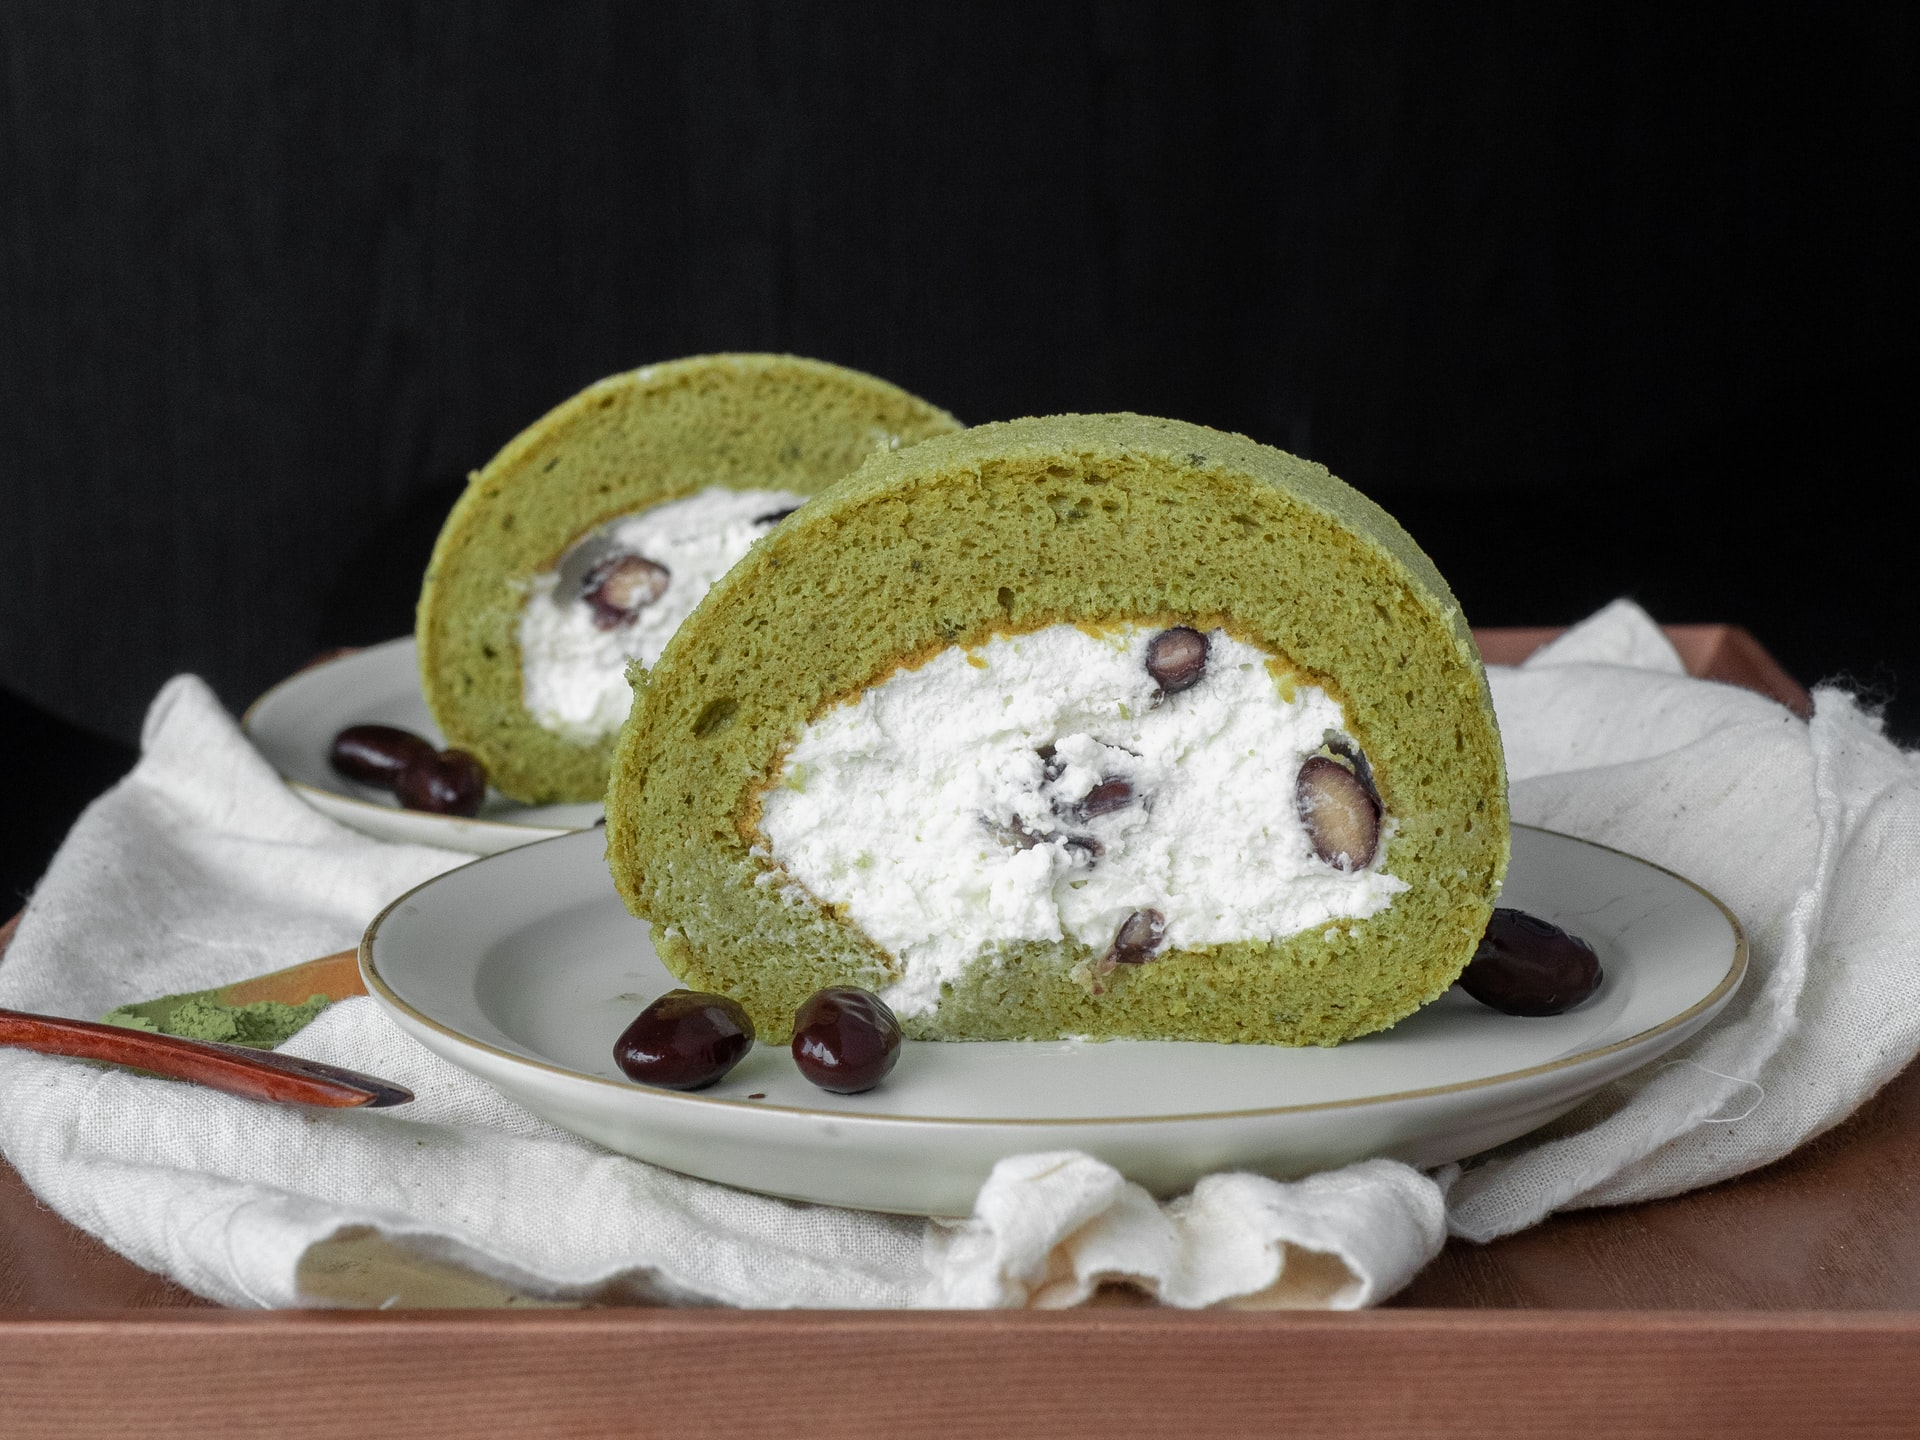
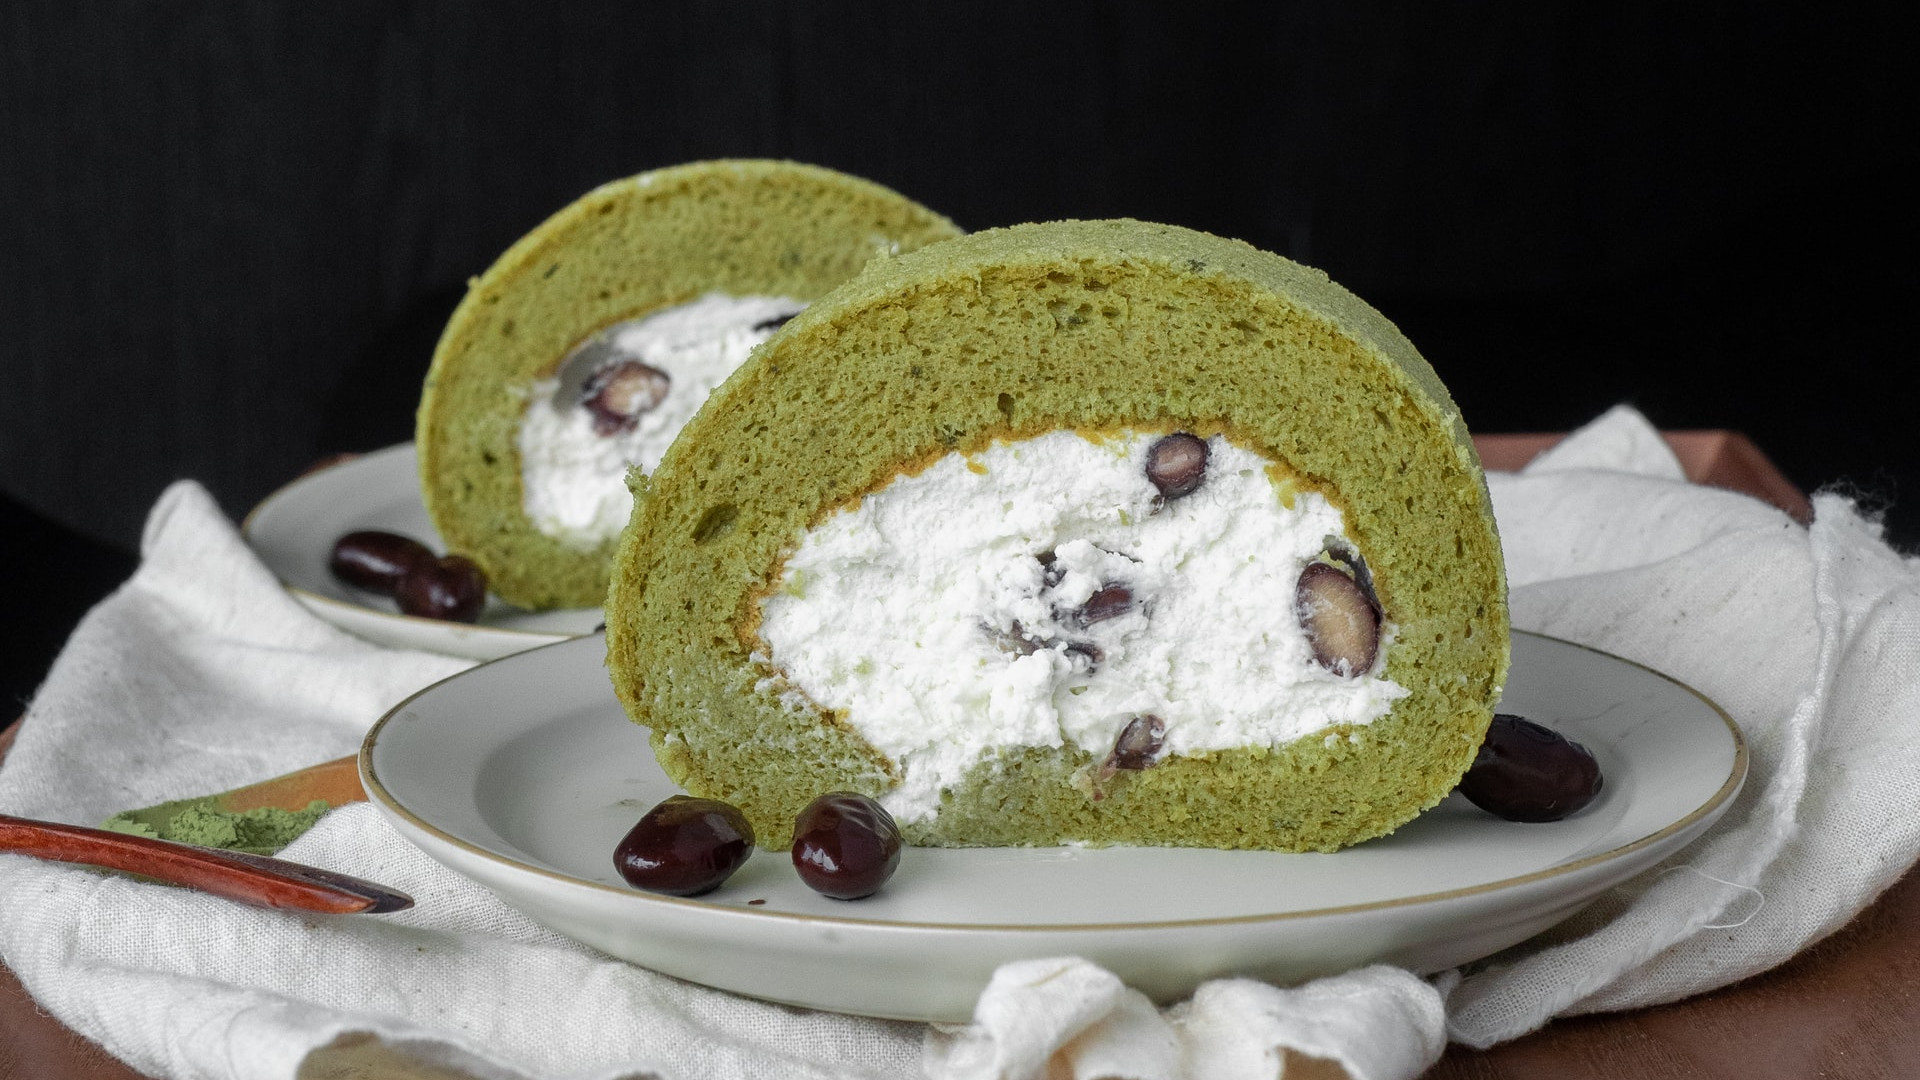
Crop images to consistent sizes

diff --git a/recipes/castella-cake.html b/recipes/castella-cake.html
@@ -10,24 +10,26 @@
   <body>
     <h1>Castella Cake</h1>
     <a href="/">Return to Home</a>
-    <img
-      src="../img/castella-cake.jpg"
-      alt="Castella cake being sprinkled with powdered sugar."
-    />
-    <p>
-      Photo by
-      <a
-        href="https://unsplash.com/@slashiophotography?utm_source=unsplash&utm_medium=referral&utm_content=creditCopyText"
-      >
-        Slashio Photography
-      </a>
-      on
-      <a
-        href="https://unsplash.com/?utm_source=unsplash&utm_medium=referral&utm_content=creditCopyText"
-      >
-        Unsplash
-      </a>
-    </p>
+    <div class="img-recipe">
+      <img
+        src="../img/castella-cake.jpg"
+        alt="Castella cake being sprinkled with powdered sugar."
+      />
+      <p class="img-attribution">
+        Photo by
+        <a
+          href="https://unsplash.com/@slashiophotography?utm_source=unsplash&utm_medium=referral&utm_content=creditCopyText"
+        >
+          Slashio Photography
+        </a>
+        on
+        <a
+          href="https://unsplash.com/?utm_source=unsplash&utm_medium=referral&utm_content=creditCopyText"
+        >
+          Unsplash
+        </a>
+      </p>
+    </div>
     <h2>Description</h2>
     <p>A fluffy and jiggly cake!</p>
     <p>Castella is best enjoyed hot and fresh from the oven.</p>

diff --git a/recipes/souffle-pancakes.html b/recipes/souffle-pancakes.html
@@ -10,24 +10,26 @@
   <body>
     <h1>Soufflé Pancakes</h1>
     <a href="/">Return to Home</a>
-    <img
-      src="../img/souffle-pancakes.jpg"
-      alt="A single soufflé pancake on a plate, dusted with powdered sugar."
-    />
-    <p>
-      Photo by
-      <a
-        href="https://unsplash.com/@bhuwan1998?utm_source=unsplash&utm_medium=referral&utm_content=creditCopyText"
-      >
-        Bhuwan Bansal
-      </a>
-      on
-      <a
-        href="https://unsplash.com/?utm_source=unsplash&utm_medium=referral&utm_content=creditCopyText"
-      >
-        Unsplash
-      </a>
-    </p>
+    <div class="img-recipe">
+      <img
+        src="../img/souffle-pancakes.jpg"
+        alt="A single soufflé pancake on a plate, dusted with powdered sugar."
+      />
+      <p class="img-attribution">
+        Photo by
+        <a
+          href="https://unsplash.com/@bhuwan1998?utm_source=unsplash&utm_medium=referral&utm_content=creditCopyText"
+        >
+          Bhuwan Bansal
+        </a>
+        on
+        <a
+          href="https://unsplash.com/?utm_source=unsplash&utm_medium=referral&utm_content=creditCopyText"
+        >
+          Unsplash
+        </a>
+      </p>
+    </div>
     <h2>Description</h2>
     <p>
       Soft and fluffy <em>soufflé pancakes</em> are a fun and elegant comfort

diff --git a/recipes/matcha-roll-cake.html b/recipes/matcha-roll-cake.html
@@ -11,24 +11,26 @@
     <h1>Matcha Roll Cake with Adzuki Cream</h1>
 
     <a href="/">Return to Home</a>
-    <img
-      src="../img/matcha-roll-cake.jpg"
-      alt="Two slices of matcha roll cake, revealing the adzuki cream filling."
-    />
-    <p>
-      Photo by
-      <a
-        href="https://unsplash.com/@vickyng?utm_source=unsplash&utm_medium=referral&utm_content=creditCopyText"
-      >
-        Vicky Ng
-      </a>
-      on
-      <a
-        href="https://unsplash.com/?utm_source=unsplash&utm_medium=referral&utm_content=creditCopyText"
-      >
-        Unsplash
-      </a>
-    </p>
+    <div class="img-recipe">
+      <img
+        src="../img/matcha-roll-cake.jpg"
+        alt="Two slices of matcha roll cake, revealing the adzuki cream filling."
+      />
+      <p class="img-attribution">
+        Photo by
+        <a
+          href="https://unsplash.com/@vickyng?utm_source=unsplash&utm_medium=referral&utm_content=creditCopyText"
+        >
+          Vicky Ng
+        </a>
+        on
+        <a
+          href="https://unsplash.com/?utm_source=unsplash&utm_medium=referral&utm_content=creditCopyText"
+        >
+          Unsplash
+        </a>
+      </p>
+    </div>
     <h2>Description</h2>
     <p>
       The contrast of sweet and smooth Adzuki beans with the spongy and slightly

diff --git a/styles.css b/styles.css
@@ -14,3 +14,24 @@ h1 {
   font-family: Fredoka, sans-serif;
   text-align: center;
 }
+
+img {
+  display: block;
+  margin-left: auto;
+  margin-right: auto;
+  width: 100%;
+  border-radius: 8px;
+}
+
+/* Wrapper for recipe hero image and attribution */
+.img-recipe {
+  position: relative;
+  width: 80vw;
+}
+
+.img-attribution {
+  position: absolute;
+  bottom: 0px;
+  right: 12.8px;
+  font-size: 0.8rem;
+}
